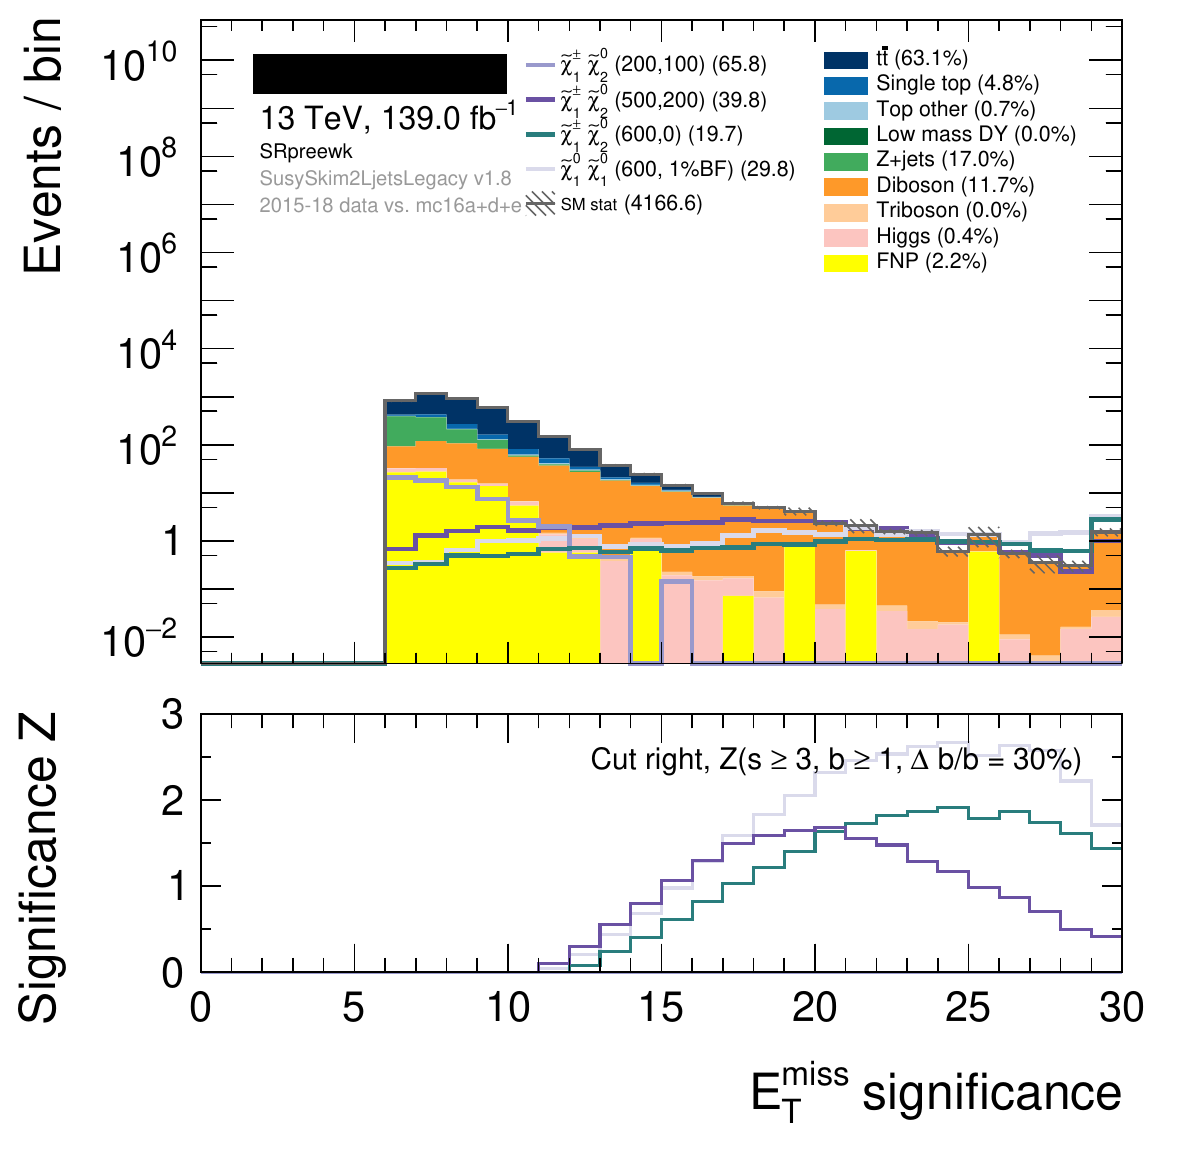
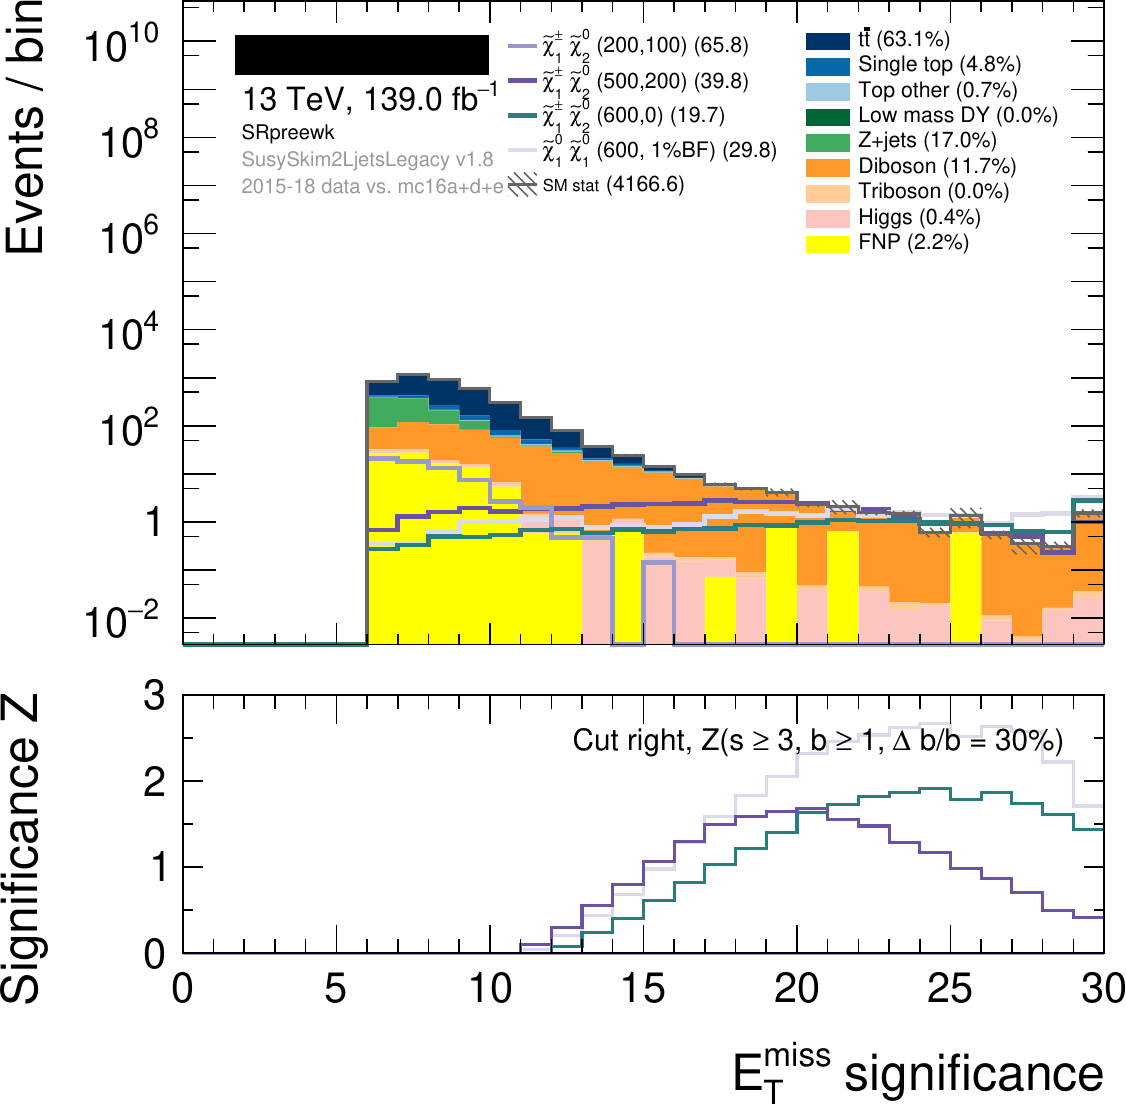
add prefit plot

diff --git a/main/chapter_2ljets.tex b/main/chapter_2ljets.tex
@@ -1714,15 +1714,21 @@ Differences between regions are \uwave{underlined}.
 \item DR-OffShell: SR-OffShell
 \end{itemize}
 
+
+Figure~\ref{fig:2ljets_disco_trials_high}
+Figure~\ref{fig:2ljets_disco_trials_llbb}
+Figure~\ref{fig:2ljets_disco_trials_int}
+Figure~\ref{fig:2ljets_disco_prefit}
+
 \begin{figure}[tp]
 \centering
-\begin{subfigure}{0.49\textwidth}
+\begin{subfigure}{0.45\textwidth}
 \centering
 \includegraphics[width=\textwidth]{figures/2ljets_disco_High_C1N2_WZ_500p0_200p0_2L2J.png}
 \caption{}
 \end{subfigure}
 \hfill
-\begin{subfigure}{0.49\textwidth}
+\begin{subfigure}{0.45\textwidth}
 \centering
 \includegraphics[width=\textwidth]{figures/2ljets_disco_High_C1N2_WZ_600_0_2L2J.png}
 \caption{}
@@ -1742,18 +1748,17 @@ match those in the final result.
 
 \begin{figure}[tp]
 \centering
-\begin{subfigure}{0.49\textwidth}
+\begin{subfigure}{0.45\textwidth}
 \centering
 \includegraphics[width=\textwidth]{figures/2ljets_disco_llbb_C1N2N1_GGMHinoZh50_600.png}
 \caption{}
 \end{subfigure}
 \hfill
-\begin{subfigure}{0.49\textwidth}
+\begin{subfigure}{0.45\textwidth}
 \centering
 \includegraphics[width=\textwidth]{figures/2ljets_disco_llbb_C1N2N1_GGMHinoZh50_700.png}
 \caption{}
 \end{subfigure}
-\\[.5em]
 \caption{%
 Evaluation of candidate High discovery regions.
 The region SR-$\ell\ell bb$, labelled `SRllbb' here, is chosen for
@@ -1769,13 +1774,13 @@ match those in the final result.
 
 \begin{figure}[tp]
 \centering
-\begin{subfigure}{0.49\textwidth}
+\begin{subfigure}{0.45\textwidth}
 \centering
 \includegraphics[width=\textwidth]{figures/2ljets_disco_Int_C1N2_WZ_250p0_100p0_2L2J.png}
 \caption{}
 \end{subfigure}
 \hfill
-\begin{subfigure}{0.49\textwidth}
+\begin{subfigure}{0.45\textwidth}
 \centering
 \includegraphics[width=\textwidth]{figures/2ljets_disco_Int_C1N2_WZ_400p0_200p0_2L2J.png}
 \caption{}
@@ -1792,6 +1797,45 @@ match those in the final result.
 }
 \label{fig:2ljets_disco_trials_int}
 \end{figure}
+
+\begin{figure}[tp]
+\centering
+\begin{subfigure}{0.4\textwidth}
+\centering
+\includegraphics[width=\textwidth]{figures/2ljets_disco_plot_DRHigh.png}
+\caption{DR-High}
+\end{subfigure}
+\quad\quad
+\begin{subfigure}{0.4\textwidth}
+\centering
+\includegraphics[width=\textwidth]{figures/2ljets_disco_plot_DRllbb.png}
+\caption{DR-$\ell\ell bb$}
+\end{subfigure}
+\\[.5em]
+\begin{subfigure}{0.4\textwidth}
+\centering
+\includegraphics[width=\textwidth]{figures/2ljets_disco_plot_DRInt.png}
+\caption{DR-Int}
+\end{subfigure}
+\quad\quad
+\begin{subfigure}{0.4\textwidth}
+\centering
+\includegraphics[width=\textwidth]{figures/2ljets_disco_plot_DRLow.png}
+\caption{DR-Low}
+\end{subfigure}
+\\[.5em]
+\begin{subfigure}{0.4\textwidth}
+\centering
+\includegraphics[width=\textwidth]{figures/2ljets_disco_plot_DROffShell.png}
+\caption{DR-OffShell}
+\end{subfigure}
+\caption{%
+Pre-fit yields in discovery regions.
+Errors are statistical.
+}
+\label{fig:2ljets_disco_prefit}
+\end{figure}
+
 
 
 \section{Modelling}
